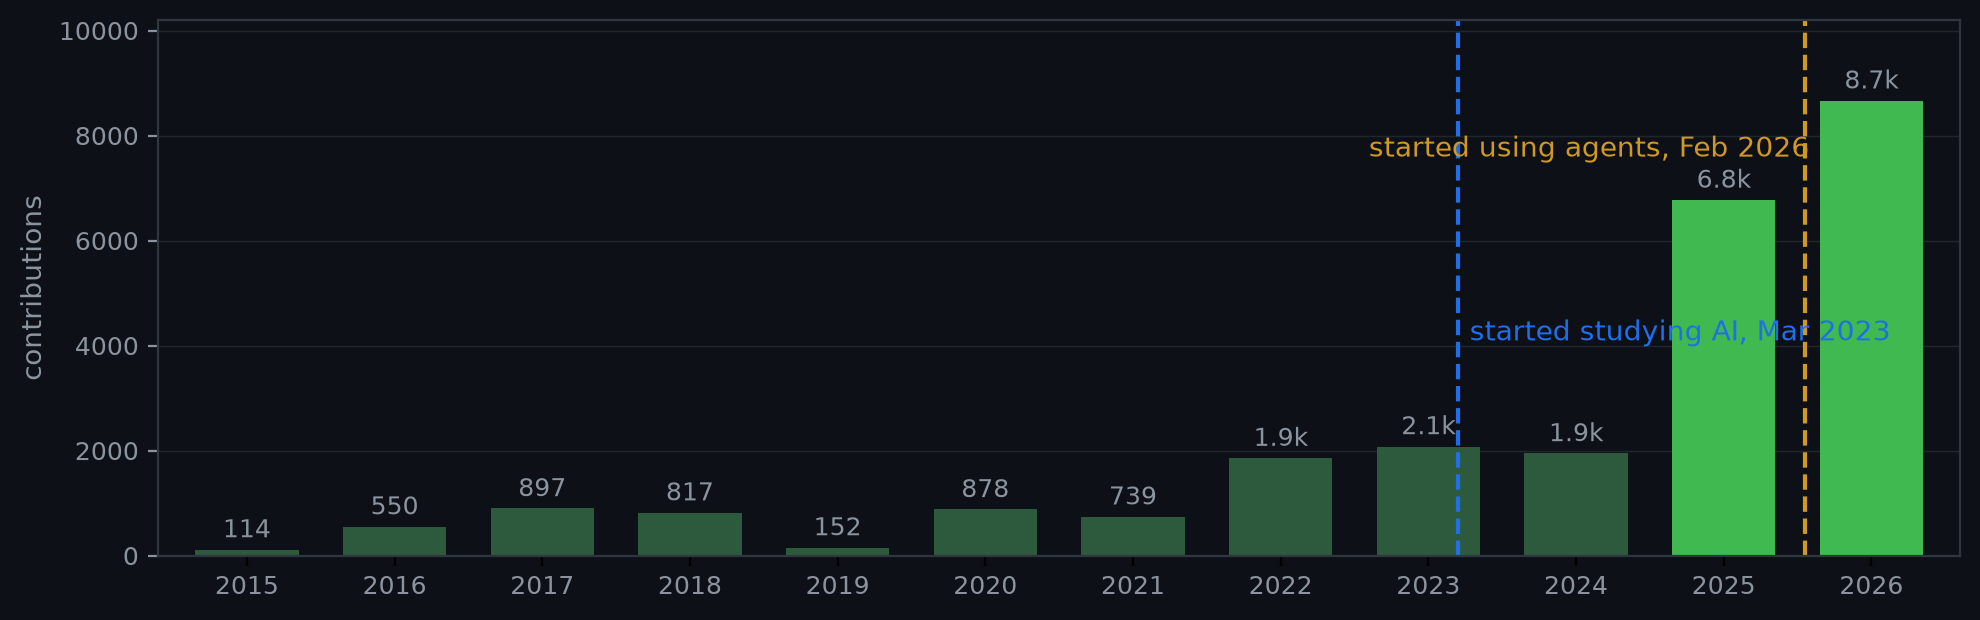
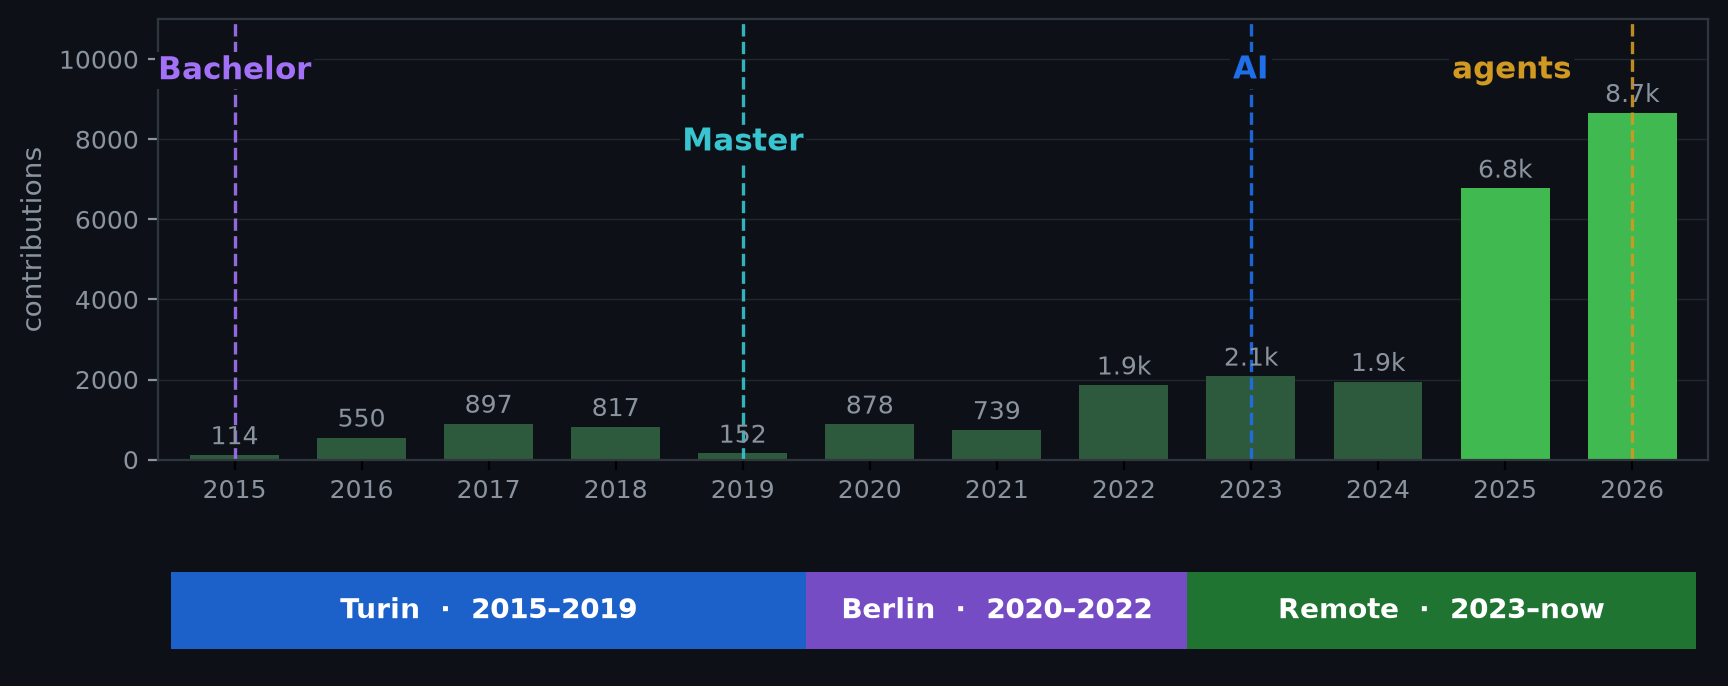
Chart milestones as one-word markers plus work-location strip

diff --git a/README.md b/README.md
@@ -42,7 +42,7 @@ Most of that earlier code still lives on my old GitHub accounts — I'll merge i
 
 Combined public contributions per calendar year. 2026 is partial (through September).
 
-![Yearly contributions with agents marker](contributions.png)
+![Yearly contributions with markers Bachelor 2015, Master 2019, AI 2023, agents 2026; locations Turin 2015–2019, Berlin 2020–2022, Remote 2023–now](contributions.png)
 
 ## Engagements
 
